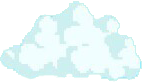
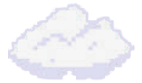
Rework at clouds animation. Added symbols to the window buttons.

diff --git a/index.html b/index.html
@@ -71,9 +71,9 @@
 
             <header class="window-header" id="wikiHeader">
                 <section class="buttons">
-                    <span class="maximize">&#8722;</span>
-                    <span class="minimize" onclick="maximizeHandler('wiki')">&#9711;</span>
-                    <span class="close" onclick="windowHandler('wiki')">X</span>
+                    <span class="maximize">‒</span>
+                    <span class="minimize" onclick="maximizeHandler('wiki')">〇</span>
+                    <span class="close" onclick="windowHandler('wiki')">✕</span>
                 </section>
                 <span class="window-name">Stardew Valley Wiki</span>
             </header>
@@ -84,9 +84,9 @@
 
             <header class="window-header" id="browserHeader">
                 <section class="buttons">
-                    <span class="maximize"></span>
-                    <span class="minimize" onclick="maximizeHandler('browser')"></span>
-                    <span class="close" onclick="windowHandler('browser')"></span>
+                    <span class="maximize">‒</span>
+                    <span class="minimize" onclick="maximizeHandler('browser')">〇</span>
+                    <span class="close" onclick="windowHandler('browser')">✕</span>
                 </section>
                 <span class="window-name">Browser</span>
             </header>
@@ -98,30 +98,15 @@
 
             <header class="window-header" id="mapHeader">
                 <section class="buttons">
-                    <span class="maximize"></span>
-                    <span class="minimize" onclick="maximizeHandler('map')"></span>
-                    <span class="close" onclick="windowHandler('map')"></span>
+                    <span class="maximize">‒</span>
+                    <span class="minimize" onclick="maximizeHandler('map')">〇</span>
+                    <span class="close" onclick="windowHandler('map')">✕</span>
                 </section>
                 <span class="window-name">Stardew Valley Map Planner</span>
             </header>
             <iframe src="https://stardew.info/planner/" loading="lazy"></iframe>
 
         </section>
-
-        <section class="window hidded" id="code">
-
-            <header class="window-header" id="codeHeader">
-                <section class="buttons">
-                    <span class="close" onclick="windowHandler('code')"></span>
-                    <span class="minimize" onclick="maximizeHandler('code')"></span>
-                    <span class="maximize"></span>
-                </section>
-                <span class="window-name">Code</span>
-            </header>
-            <iframe src="https://github.com/FernandoBade/stardewOS" id="stackBlitz" loading="lazy"></iframe>
-
-        </section>
-
 
         <section id="play" class="current-date">
 
@@ -220,7 +205,7 @@
         </section>
     </footer>
 
-    <script src="./main.js"></script>
+    <script src="scripts/main.js"></script>
 
 </body>
 

diff --git a/styles.scss b/styles.scss
@@ -99,6 +99,7 @@ html {
         color: white;
         text-align: center;
         font-weight: 100;
+        font-family: 'Stardew Valley', sans-serif;
 
     }
 
@@ -138,7 +139,7 @@ html {
     .cloud1 {
         position: absolute;
         top: 30%;
-        left: -200px;
+        left: 200px;
         z-index: 0;
         animation-duration: 820s;
         animation-name: goRight;
@@ -182,10 +183,10 @@ html {
         top: 40%;
         left: -200px;
         z-index: 1;
-        animation-duration: 600s;
+        animation-duration: 500s;
         animation-name: goLeft2;
         animation-iteration-count: infinite;
-        opacity: .5;
+        opacity: .3;
      }
       
       @keyframes goLeft2 {
@@ -250,13 +251,13 @@ html {
 
     .window {
 
-        width: 70%;
-        height: 70vh;
+        width: 80%;
+        height: 80vh;
         position: absolute;
         border-radius: 12px;
         overflow: hidden;
-        top: 30vh;
-        left: 30%;
+        top: 10vh;
+        left: 10%;
         // z-index: -5;
         transform: scale(2);
         opacity: 0;
@@ -270,7 +271,6 @@ html {
             background-color: #171717a4;
             backdrop-filter: blur(12px);
             display: flex;
-
             padding-inline: 12px;
             justify-content:flex-end;
             align-items: center;
@@ -301,7 +301,7 @@ html {
                     border-radius: 50%;
                     transition: .2s ease-in-out;
                     opacity: .8;
-                    font-size: 8px;
+                    font-size: 10px;
                     font-weight: bolder;
 
                     &:hover {
@@ -319,8 +319,8 @@ html {
                     display: flex;
                     flex-direction: column;
                     flex-wrap: wrap;
-                    align-content: space-around;
-                    justify-content: space-around;
+                    align-content: space-evenly;
+                    justify-content: space-evenly;
                 }
 
                 .minimize {
@@ -329,8 +329,8 @@ html {
                     display: flex;
                     flex-direction: column;
                     flex-wrap: wrap;
-                    align-content: space-around;
-                    justify-content: space-around;
+                    align-content: space-evenly;
+                    justify-content: space-evenly;
                 }
 
                 .maximize {
@@ -339,8 +339,8 @@ html {
                     display: flex;
                     flex-direction: column;
                     flex-wrap: wrap;
-                    align-content: space-around;
-                    justify-content: space-around;
+                    align-content: space-evenly;
+                    justify-content: space-evenly;
                    
                 }
 

diff --git a/styles.css b/styles.css
@@ -125,6 +125,7 @@ html {
   color: white;
   text-align: center;
   font-weight: 100;
+  font-family: 'Stardew Valley', sans-serif;
 }
 
 .booting div {
@@ -170,7 +171,7 @@ html {
 .desktop .cloud1 {
   position: absolute;
   top: 30%;
-  left: -200px;
+  left: 200px;
   z-index: 0;
   -webkit-animation-duration: 820s;
           animation-duration: 820s;
@@ -244,13 +245,13 @@ html {
   top: 40%;
   left: -200px;
   z-index: 1;
-  -webkit-animation-duration: 600s;
-          animation-duration: 600s;
+  -webkit-animation-duration: 500s;
+          animation-duration: 500s;
   -webkit-animation-name: goLeft2;
           animation-name: goLeft2;
   -webkit-animation-iteration-count: infinite;
           animation-iteration-count: infinite;
-  opacity: .5;
+  opacity: .3;
 }
 
 @-webkit-keyframes goLeft2 {
@@ -336,13 +337,13 @@ html {
 }
 
 .desktop .window {
-  width: 70%;
-  height: 70vh;
+  width: 80%;
+  height: 80vh;
   position: absolute;
   border-radius: 12px;
   overflow: hidden;
-  top: 30vh;
-  left: 30%;
+  top: 10vh;
+  left: 10%;
   -webkit-transform: scale(2);
           transform: scale(2);
   opacity: 0;
@@ -398,7 +399,7 @@ html {
   -webkit-transition: .2s ease-in-out;
   transition: .2s ease-in-out;
   opacity: .8;
-  font-size: 8px;
+  font-size: 10px;
   font-weight: bolder;
 }
 
@@ -418,10 +419,11 @@ html {
           flex-direction: column;
   -ms-flex-wrap: wrap;
       flex-wrap: wrap;
-  -ms-flex-line-pack: distribute;
-      align-content: space-around;
-  -ms-flex-pack: distribute;
-      justify-content: space-around;
+  -ms-flex-line-pack: space-evenly;
+      align-content: space-evenly;
+  -webkit-box-pack: space-evenly;
+      -ms-flex-pack: space-evenly;
+          justify-content: space-evenly;
 }
 
 .desktop .window .window-header .buttons .minimize {
@@ -435,10 +437,11 @@ html {
           flex-direction: column;
   -ms-flex-wrap: wrap;
       flex-wrap: wrap;
-  -ms-flex-line-pack: distribute;
-      align-content: space-around;
-  -ms-flex-pack: distribute;
-      justify-content: space-around;
+  -ms-flex-line-pack: space-evenly;
+      align-content: space-evenly;
+  -webkit-box-pack: space-evenly;
+      -ms-flex-pack: space-evenly;
+          justify-content: space-evenly;
 }
 
 .desktop .window .window-header .buttons .maximize {
@@ -452,10 +455,11 @@ html {
           flex-direction: column;
   -ms-flex-wrap: wrap;
       flex-wrap: wrap;
-  -ms-flex-line-pack: distribute;
-      align-content: space-around;
-  -ms-flex-pack: distribute;
-      justify-content: space-around;
+  -ms-flex-line-pack: space-evenly;
+      align-content: space-evenly;
+  -webkit-box-pack: space-evenly;
+      -ms-flex-pack: space-evenly;
+          justify-content: space-evenly;
 }
 
 .desktop .window iframe {
